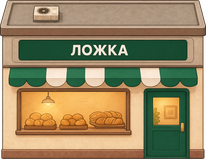
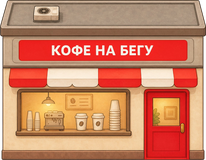
Подписи помещений — по одному правилу: по центру здания, у края крыши
Над картой полоса 48 px, чтобы подпись киоска у края помещалась на нём, а не висела на доме.
Киоск конкурента — «Кофе на бегу» (на вывеске была «Ложка»).

Claude-Session: https://claude.ai/code/session_01DHEiVcyPj9Qv6m6TjqeSZK

diff --git a/src/game/StreetScene.ts b/src/game/StreetScene.ts
@@ -68,6 +68,12 @@ const BUILDING_SPRITE: Record<string, string> = {
   'home-4': 'building-home-b-right',
 };
 
+/** Карта на экране чуть выше мира: сверху полоса, чтобы подпись киоска у края помещалась на его крыше */
+/** Подпись помещения: насколько ниже верхнего края здания её центр */
+const LABEL_ROOF = 10;
+
+const MAP = { top: -48, height: WORLD.height + 48 } as const;
+
 /** Цоколь здания чуть ниже основания, чтобы не было щели до полосы у двери */
 const BASE_SHIFT = 4;
 
@@ -101,9 +107,9 @@ const PROPS: [string, number, number][] = [
 ];
 
 /** Помещения под бизнес игрока: спрайты «сдаётся» и «открыто», окна, подписи */
-const PREMISES_ART: Record<string, { rent: string; open: string; lights: string; rival: string; windows: { x: number; y: number; w: number; h: number }[]; labelX: number; labelY: number }> = {
-  cafe: { rent: 'building-cafe-rent', open: 'building-cafe-open', lights: 'building-cafe-lights', rival: 'building-cafe-rival', windows: [], labelX: 120, labelY: 28 },
-  kiosk: { rent: 'building-kiosk-rent', open: 'building-kiosk-open', lights: 'building-kiosk-lights', rival: 'building-kiosk-rival', windows: [{ x: 18, y: 40, w: 56, h: 24 }], labelX: 60, labelY: 106 },
+const PREMISES_ART: Record<string, { rent: string; open: string; lights: string; rival: string; windows: { x: number; y: number; w: number; h: number }[] }> = {
+  cafe: { rent: 'building-cafe-rent', open: 'building-cafe-open', lights: 'building-cafe-lights', rival: 'building-cafe-rival', windows: [] },
+  kiosk: { rent: 'building-kiosk-rent', open: 'building-kiosk-open', lights: 'building-kiosk-lights', rival: 'building-kiosk-rival', windows: [{ x: 18, y: 40, w: 56, h: 24 }] },
 };
 
 interface Shop {
@@ -215,9 +221,9 @@ export class StreetScene extends Phaser.Scene {
     this.night = this.add.graphics().setDepth(DEPTH.night);
     this.sky = this.add.graphics().setDepth(DEPTH.sky);
     for (const shop of this.shops) {
-      const art = PREMISES_ART[shop.place.id];
-      const x = shop.place.rect.x + art.labelX;
-      const y = shop.place.rect.y + art.labelY;
+      // Одно правило для всех помещений: подпись по центру здания, на краю крыши
+      const x = shop.sprite.x;
+      const y = shop.sprite.getTopCenter().y + LABEL_ROOF;
       shop.name = this.label(x, y, '', 20, true);
       shop.status = this.label(x, y + 25, '', 16, false);
     }
@@ -255,13 +261,13 @@ export class StreetScene extends Phaser.Scene {
   /** Масштаб «по размеру»: на телефоне улица во всю ширину, на компьютере — целиком по высоте */
   private baseZoom(): number {
     const { width: w, height: h } = this.scale;
-    const contain = Math.min(w / WORLD.width, h / WORLD.height);
+    const contain = Math.min(w / WORLD.width, h / MAP.height);
     return this.hooks.wide() ? contain : Math.max(contain, w / WORLD.width);
   }
 
   private zoomLimits(): [number, number] {
     const { width: w, height: h } = this.scale;
-    const contain = Math.min(w / WORLD.width, h / WORLD.height);
+    const contain = Math.min(w / WORLD.width, h / MAP.height);
     return [contain, Math.max(this.baseZoom() * 2.6, 1.4 * this.px)];
   }
 
@@ -398,7 +404,7 @@ export class StreetScene extends Phaser.Scene {
     const vw = cam.width / v.zoom;
     const vh = cam.height / v.zoom;
     v.cx = vw >= WORLD.width ? WORLD.width / 2 : Phaser.Math.Clamp(v.cx, vw / 2, WORLD.width - vw / 2);
-    v.cy = vh >= WORLD.height ? WORLD.height / 2 : Phaser.Math.Clamp(v.cy, vh / 2, WORLD.height - vh / 2);
+    v.cy = vh >= MAP.height ? MAP.top + MAP.height / 2 : Phaser.Math.Clamp(v.cy, MAP.top + vh / 2, MAP.top + MAP.height - vh / 2);
     cam.setZoom(v.zoom);
     cam.centerOn(v.cx, v.cy);
     // Подписи не мельче ~11 px на экране
@@ -593,7 +599,7 @@ export class StreetScene extends Phaser.Scene {
       shop.status.setText(status).setVisible(status !== '');
       shop.status.setColor(mine && open ? '#2e8b57' : theirs ? '#c0392b' : '#6b7080');
       // Подпись не уезжает за левый край карты, даже когда длинная
-      const x0 = shop.place.rect.x + art.labelX;
+      const x0 = shop.sprite.x;
       const half = Math.max(shop.name.displayWidth, shop.status.displayWidth) / 2 + 6;
       shop.name.setX(Math.max(x0, half));
       shop.status.setX(Math.max(x0, half));
@@ -643,7 +649,7 @@ export class StreetScene extends Phaser.Scene {
     this.night.clear();
     if (dark > 0) {
       this.night.fillStyle(0x1b2340, dark);
-      this.night.fillRect(0, 0, WORLD.width, WORLD.height);
+      this.night.fillRect(0, MAP.top, WORLD.width, MAP.height);
     }
     const k = dark / MAX_DARK;
     const h = minute / 60;
@@ -681,7 +687,7 @@ export class StreetScene extends Phaser.Scene {
     const t = tint[kind];
     if (t) {
       g.fillStyle(t[0], t[1]);
-      g.fillRect(0, 0, WORLD.width, WORLD.height);
+      g.fillRect(0, MAP.top, WORLD.width, MAP.height);
     }
     if (kind === 'rain') {
       g.lineStyle(2, 0xc9d6ea, 0.55);
@@ -798,16 +804,17 @@ export class StreetScene extends Phaser.Scene {
   private drawGround(): void {
     const S = ART_SCALE;
     const cols = Math.ceil((WORLD.width + GRID.offsetX) / GRID.size);
-    const rows = Math.ceil(WORLD.height / GRID.size);
-    const canvas = this.textures.createCanvas('ground-map', WORLD.width * S, WORLD.height * S);
+    const rows = Math.ceil(MAP.height / GRID.size);
+    const canvas = this.textures.createCanvas('ground-map', WORLD.width * S, MAP.height * S);
     if (!canvas) return;
     const ctx = canvas.getContext();
     const cells: Cell[] = [];
     for (let row = 0; row < rows; row++)
       for (let col = 0; col < cols; col++) cells.push({ x: col * GRID.size - GRID.offsetX, y: row * GRID.size, size: GRID.size });
-    paintGround(this, ctx, S, cells, groundTile);
+    // Полоса над миром продолжает верхний ряд клеток (улица уходит за край)
+    paintGround(this, ctx, S, cells, (x, y) => groundTile(x, Math.max(0, y + MAP.top)));
     canvas.refresh();
-    this.add.image(0, 0, 'ground-map').setOrigin(0).setScale(1 / S).setDepth(DEPTH.ground);
+    this.add.image(0, MAP.top, 'ground-map').setOrigin(0).setScale(1 / S).setDepth(DEPTH.ground);
   }
 
   private drawBuildings(): void {
